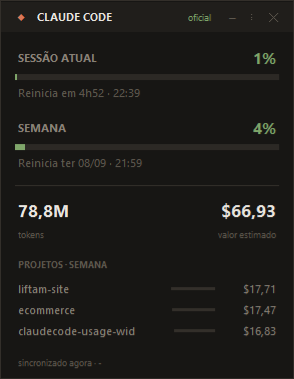
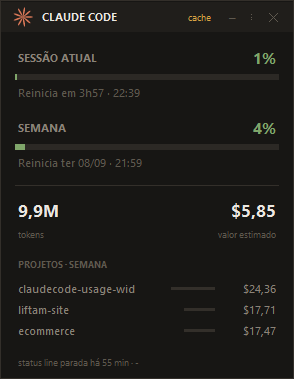
Simbolo do Claude no cabecalho e no circulo
Substitui o losango generico pelo sunburst do Claude, rasterizado em codigo:
nenhum arquivo de marca acompanha o repositorio.

O Canvas do tkinter nao faz antialiasing, e um poligono de raios finos fica
serrilhado nos tamanhos usados aqui. A forma e definida em coordenadas polares
(uma rosacea, r <= R * |cos(N*theta/2)|^p) e cada pixel e amostrado numa grade
4x4 para obter cobertura, misturada com a cor de fundo. O resultado fica em
cache por (tamanho, cor, fundo).

A contagem de raios acompanha o tamanho pedido. Onze raios so se resolvem
acima de ~26px; abaixo disso cada raio ocupa menos de um pixel e o simbolo
vira um borrao apagado, entao tamanhos menores usam oito ou nove raios --
mesma ideia do hinting de fontes. Comparacoes ampliadas guiaram os cortes.

Tambem clareia o trilho do anel no modo mini, que sobre o disco escuro estava
invisivel e tirava a nocao de escala do progresso.

diff --git a/ccwidget/ui.py b/ccwidget/ui.py
@@ -21,6 +21,7 @@ Tudo que e estimado leva o prefixo `~`, para nao se confundir com dado oficial.
 
 from __future__ import annotations
 
+import math
 import threading
 import tkinter as tk
 from datetime import datetime, timedelta, timezone
@@ -101,6 +102,110 @@ def fmt_duration_short(seconds: int) -> str:
     return f"{hours}h{minutes:02d}" if hours else f"{minutes}m"
 
 
+_MARK_CACHE: dict[tuple, tk.PhotoImage] = {}
+
+
+def _mark_shape(size: int) -> tuple[int, float]:
+    """Numero de raios e afinamento adequados ao tamanho pedido.
+
+    Onze raios finos so se resolvem acima de ~26px; abaixo disso cada raio
+    ocupa menos de um pixel e o simbolo vira um borrao apagado. Reduzir a
+    contagem em tamanhos pequenos preserva a leitura -- mesma ideia do hinting
+    de fontes.
+    """
+    if size < 20:
+        return 8, 2.2
+    if size < 26:
+        return 9, 2.6
+    if size < 34:
+        return 11, 3.2
+    return 11, 4.0
+
+
+def _hex_to_rgb(value: str) -> tuple[int, int, int]:
+    value = value.lstrip("#")
+    return int(value[0:2], 16), int(value[2:4], 16), int(value[4:6], 16)
+
+
+def render_claude_mark(
+    size: int, color: str = ACCENT, bg: str = BG_SOFT, samples: int = 4
+) -> tk.PhotoImage:
+    """Rasteriza o simbolo do Claude com antialiasing.
+
+    O Canvas do tkinter nao suaviza bordas, e um poligono de raios finos fica
+    serrilhado em tamanho pequeno. Aqui a forma e definida em coordenadas
+    polares -- uma rosacea, `r <= R * |cos(N*theta/2)|^p`, que produz os raios
+    em gota -- e cada pixel e amostrado numa grade `samples x samples` para
+    obter a cobertura, misturada com o fundo.
+
+    Vetorial de proposito: nenhum arquivo de marca acompanha o projeto, e o
+    desenho serve qualquer tamanho ou cor. O resultado fica em cache, porque
+    montar a imagem custa mais que exibi-la.
+    """
+    key = (size, color, bg, samples)
+    cached = _MARK_CACHE.get(key)
+    if cached is not None:
+        return cached
+
+    rays, sharpness = _mark_shape(size)
+    fg_r, fg_g, fg_b = _hex_to_rgb(color)
+    bg_r, bg_g, bg_b = _hex_to_rgb(bg)
+    center = size / 2
+    radius = center * 0.98
+    step = 1.0 / samples
+    total = samples * samples
+
+    rows = []
+    for py in range(size):
+        row = []
+        for px in range(size):
+            hits = 0
+            for sy in range(samples):
+                dy = py + (sy + 0.5) * step - center
+                for sx in range(samples):
+                    dx = px + (sx + 0.5) * step - center
+                    dist = math.hypot(dx, dy)
+                    if dist > radius:
+                        continue
+                    if dist < 1e-9:
+                        hits += 1
+                        continue
+                    angle = math.atan2(dy, dx)
+                    petal = abs(math.cos(rays * angle / 2)) ** sharpness
+                    if dist <= radius * petal:
+                        hits += 1
+            if not hits:
+                row.append(bg)
+                continue
+            alpha = hits / total
+            row.append(
+                "#%02x%02x%02x"
+                % (
+                    round(bg_r + (fg_r - bg_r) * alpha),
+                    round(bg_g + (fg_g - bg_g) * alpha),
+                    round(bg_b + (fg_b - bg_b) * alpha),
+                )
+            )
+        rows.append("{" + " ".join(row) + "}")
+
+    image = tk.PhotoImage(width=size, height=size)
+    image.put(" ".join(rows))
+    _MARK_CACHE[key] = image
+    return image
+
+
+class ClaudeMark(tk.Canvas):
+    """O simbolo do Claude como widget, para usar no cabecalho."""
+
+    def __init__(self, parent, size: int = 20, bg: str = BG_SOFT, color: str = ACCENT):
+        super().__init__(
+            parent, width=size, height=size, bg=bg, highlightthickness=0, bd=0
+        )
+        # A referencia precisa sobreviver: o tkinter nao segura PhotoImage.
+        self._image = render_claude_mark(size, color, bg)
+        self.create_image(0, 0, image=self._image, anchor="nw")
+
+
 class Ring(tk.Canvas):
     """Circulo do modo mini: anel de progresso com o percentual no centro."""
 
@@ -115,18 +220,23 @@ class Ring(tk.Canvas):
 
         # Disco de fundo, para o texto ter contraste sobre qualquer janela.
         self.create_oval(1, 1, size - 1, size - 1, fill=BG, outline=BORDER)
+        # Trilho um pouco mais claro que o das barras: aqui ele fica sobre o
+        # disco escuro e precisa continuar visivel para dar a nocao de escala.
         self._track = self.create_arc(
-            *box, start=90, extent=-359.9, style="arc", width=4, outline=TRACK
+            *box, start=90, extent=-359.9, style="arc", width=4, outline="#3b352d"
         )
         self._arc = self.create_arc(
             *box, start=90, extent=0, style="arc", width=4, outline=OK
         )
+        mark_size = int(size * 0.38)
+        self._mark = render_claude_mark(mark_size, ACCENT, BG)
+        self.create_image(size / 2, size * 0.33, image=self._mark, anchor="center")
         self._value = self.create_text(
-            size / 2, size / 2 - 4, text="--", fill=FG,
-            font=("Segoe UI", 12, "bold"),
+            size / 2, size * 0.60, text="--", fill=FG,
+            font=("Segoe UI", 11, "bold"),
         )
         self._caption = self.create_text(
-            size / 2, size / 2 + 11, text="5h", fill=FG_FAINT,
+            size / 2, size * 0.775, text="5h", fill=FG_FAINT,
             font=("Segoe UI", 6),
         )
 
@@ -311,8 +421,8 @@ class UsageWidget(tk.Tk):
         header.pack_propagate(False)
         self.header = header
 
-        self.dot = tk.Label(header, text="◆", bg=BG_SOFT, fg=ACCENT, font=("Segoe UI", 9))
-        self.dot.pack(side="left", padx=(PAD - 2, 5))
+        self.dot = ClaudeMark(header, size=20)
+        self.dot.pack(side="left", padx=(PAD - 2, 6))
         self.heading = tk.Label(
             header, text="CLAUDE CODE", bg=BG_SOFT, fg=FG, font=("Segoe UI", 8, "bold")
         )

diff --git a/README.md b/README.md
@@ -184,4 +184,4 @@ On Pro and Max the percentages arrive through the status line. **Team accounts d
 
 MIT — veja [LICENSE](LICENSE).
 
-Sem vínculo com a Anthropic. "Claude" é marca da Anthropic, PBC. Este projeto apenas lê arquivos locais que o Claude Code já grava; não modifica o Claude Code nem chama nenhuma API privada.
+Sem vínculo com a Anthropic. "Claude" é marca da Anthropic, PBC, e o símbolo exibido no widget é uma representação desenhada em código (`render_claude_mark`, em `ccwidget/ui.py`) — nenhum arquivo de marca acompanha o repositório. O uso aqui é nominativo: identificar a ferramenta que o widget monitora. Este projeto apenas lê arquivos locais que o Claude Code já grava; não modifica o Claude Code nem chama nenhuma API privada.
